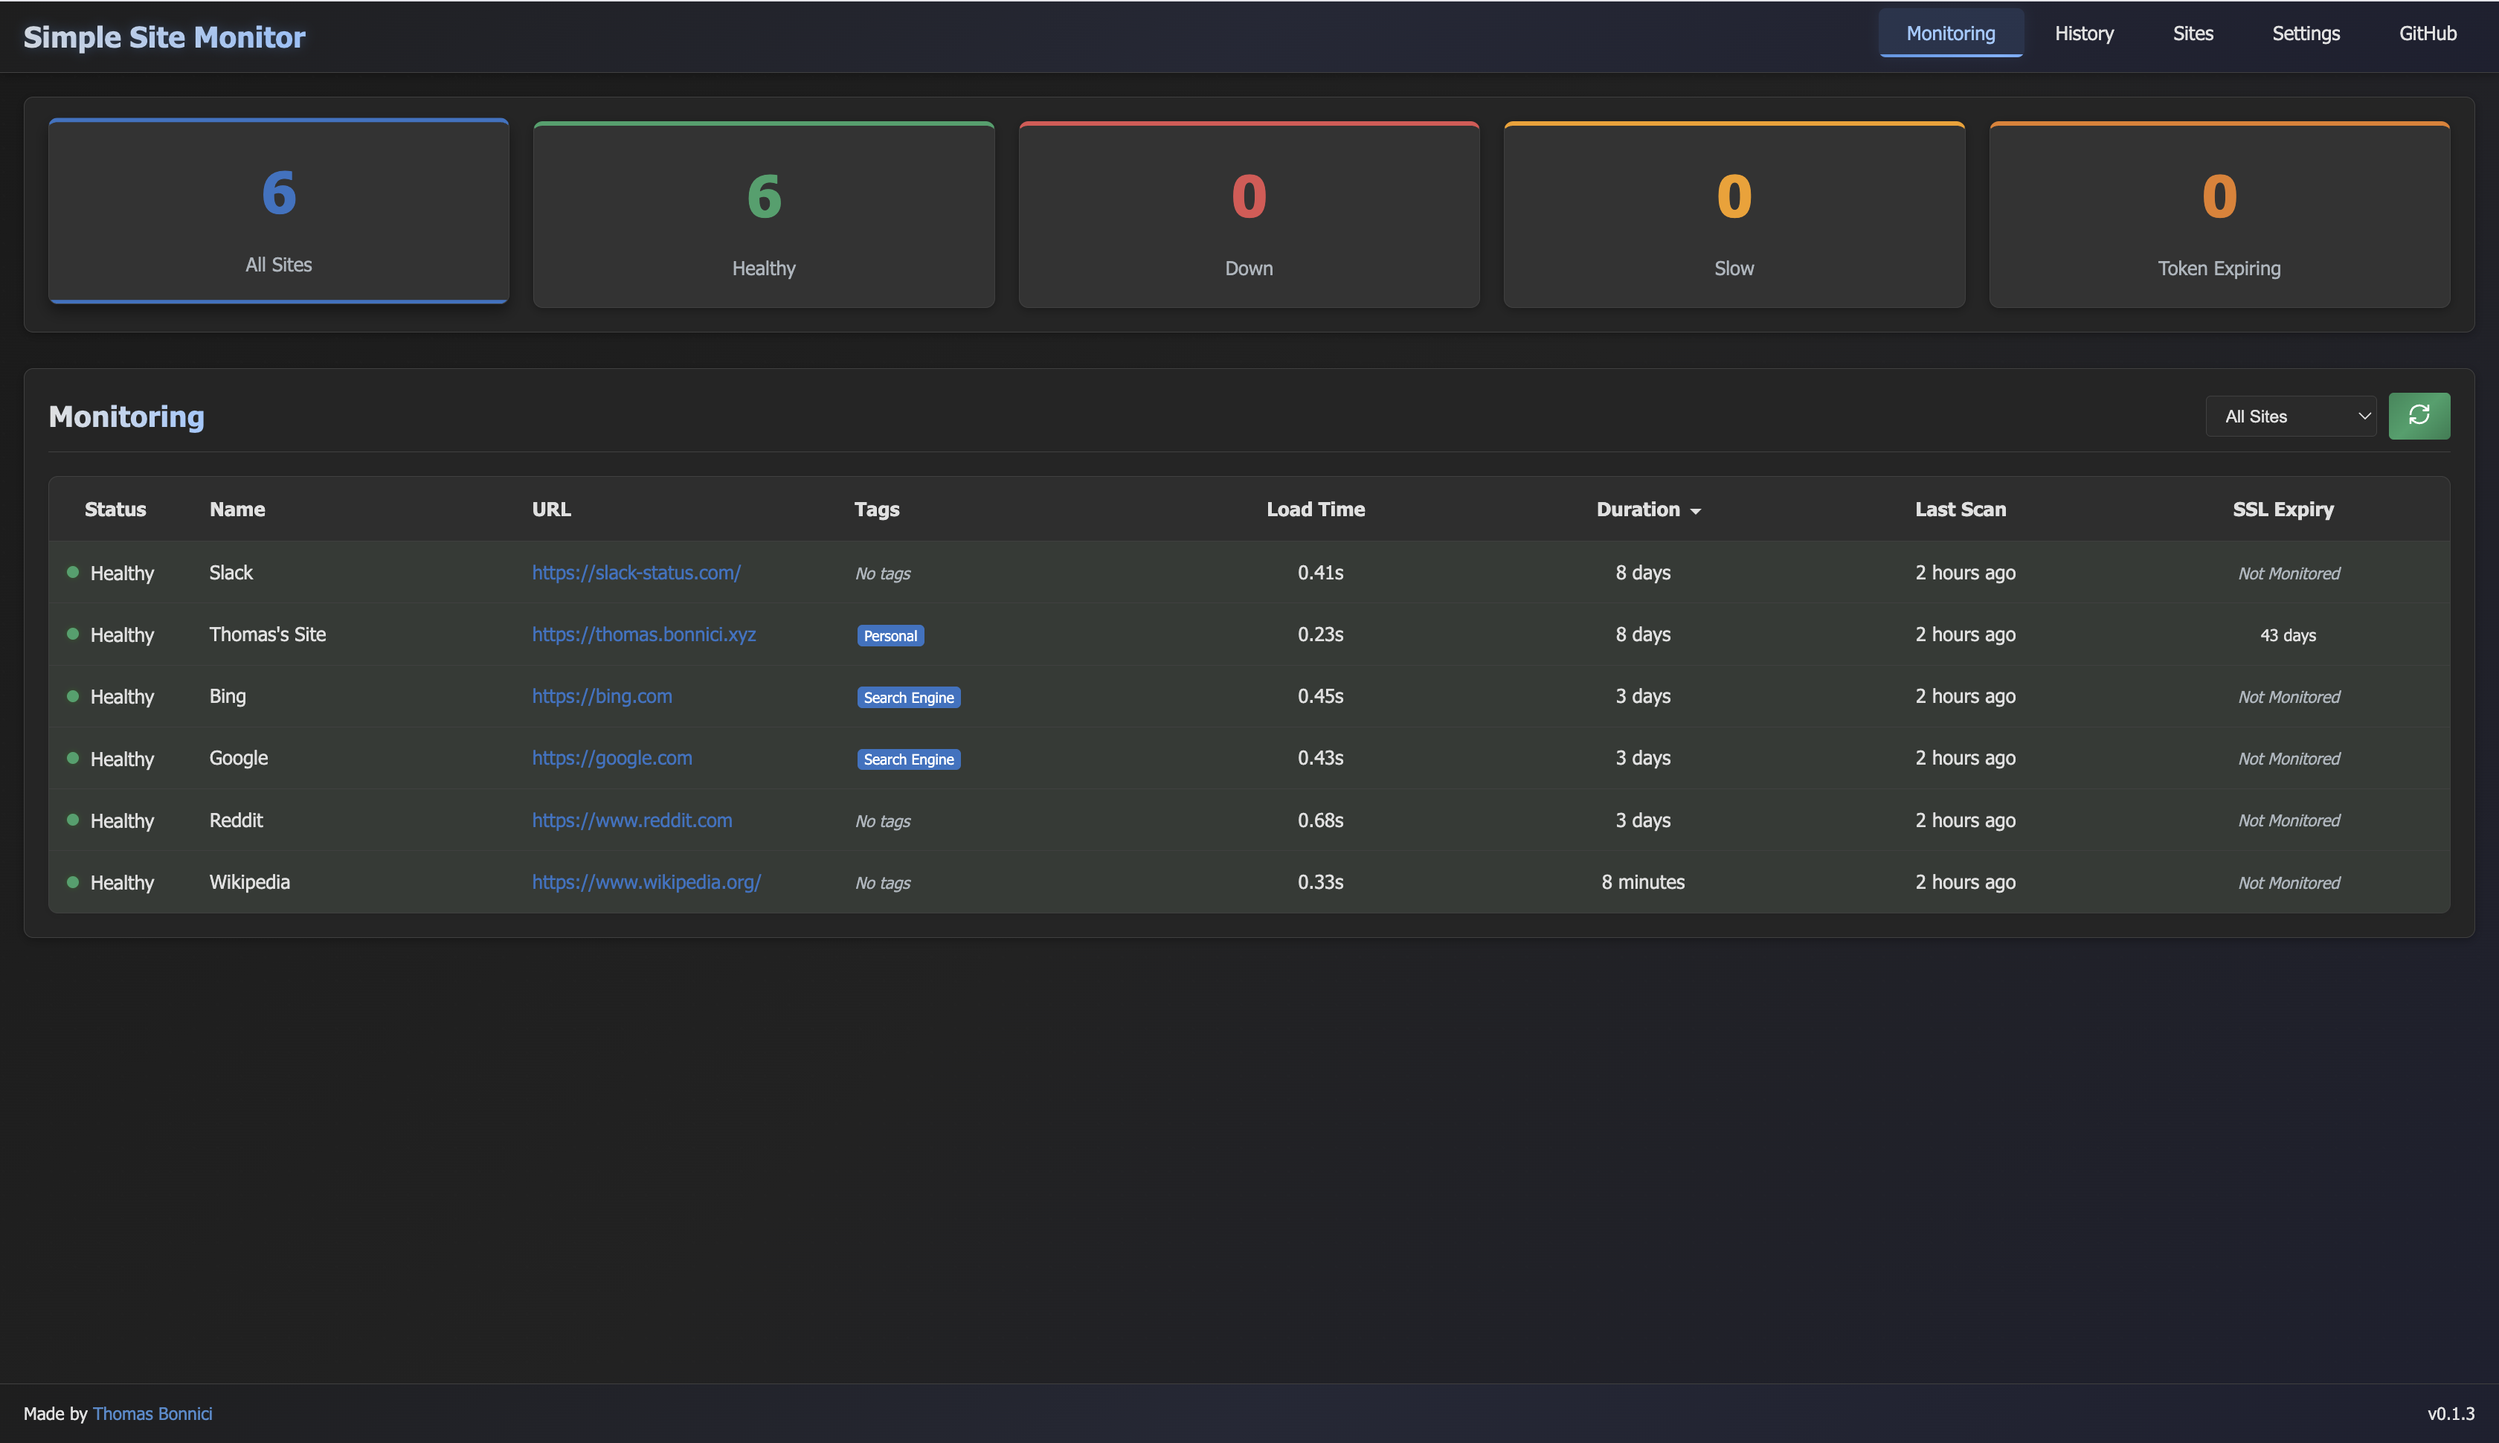
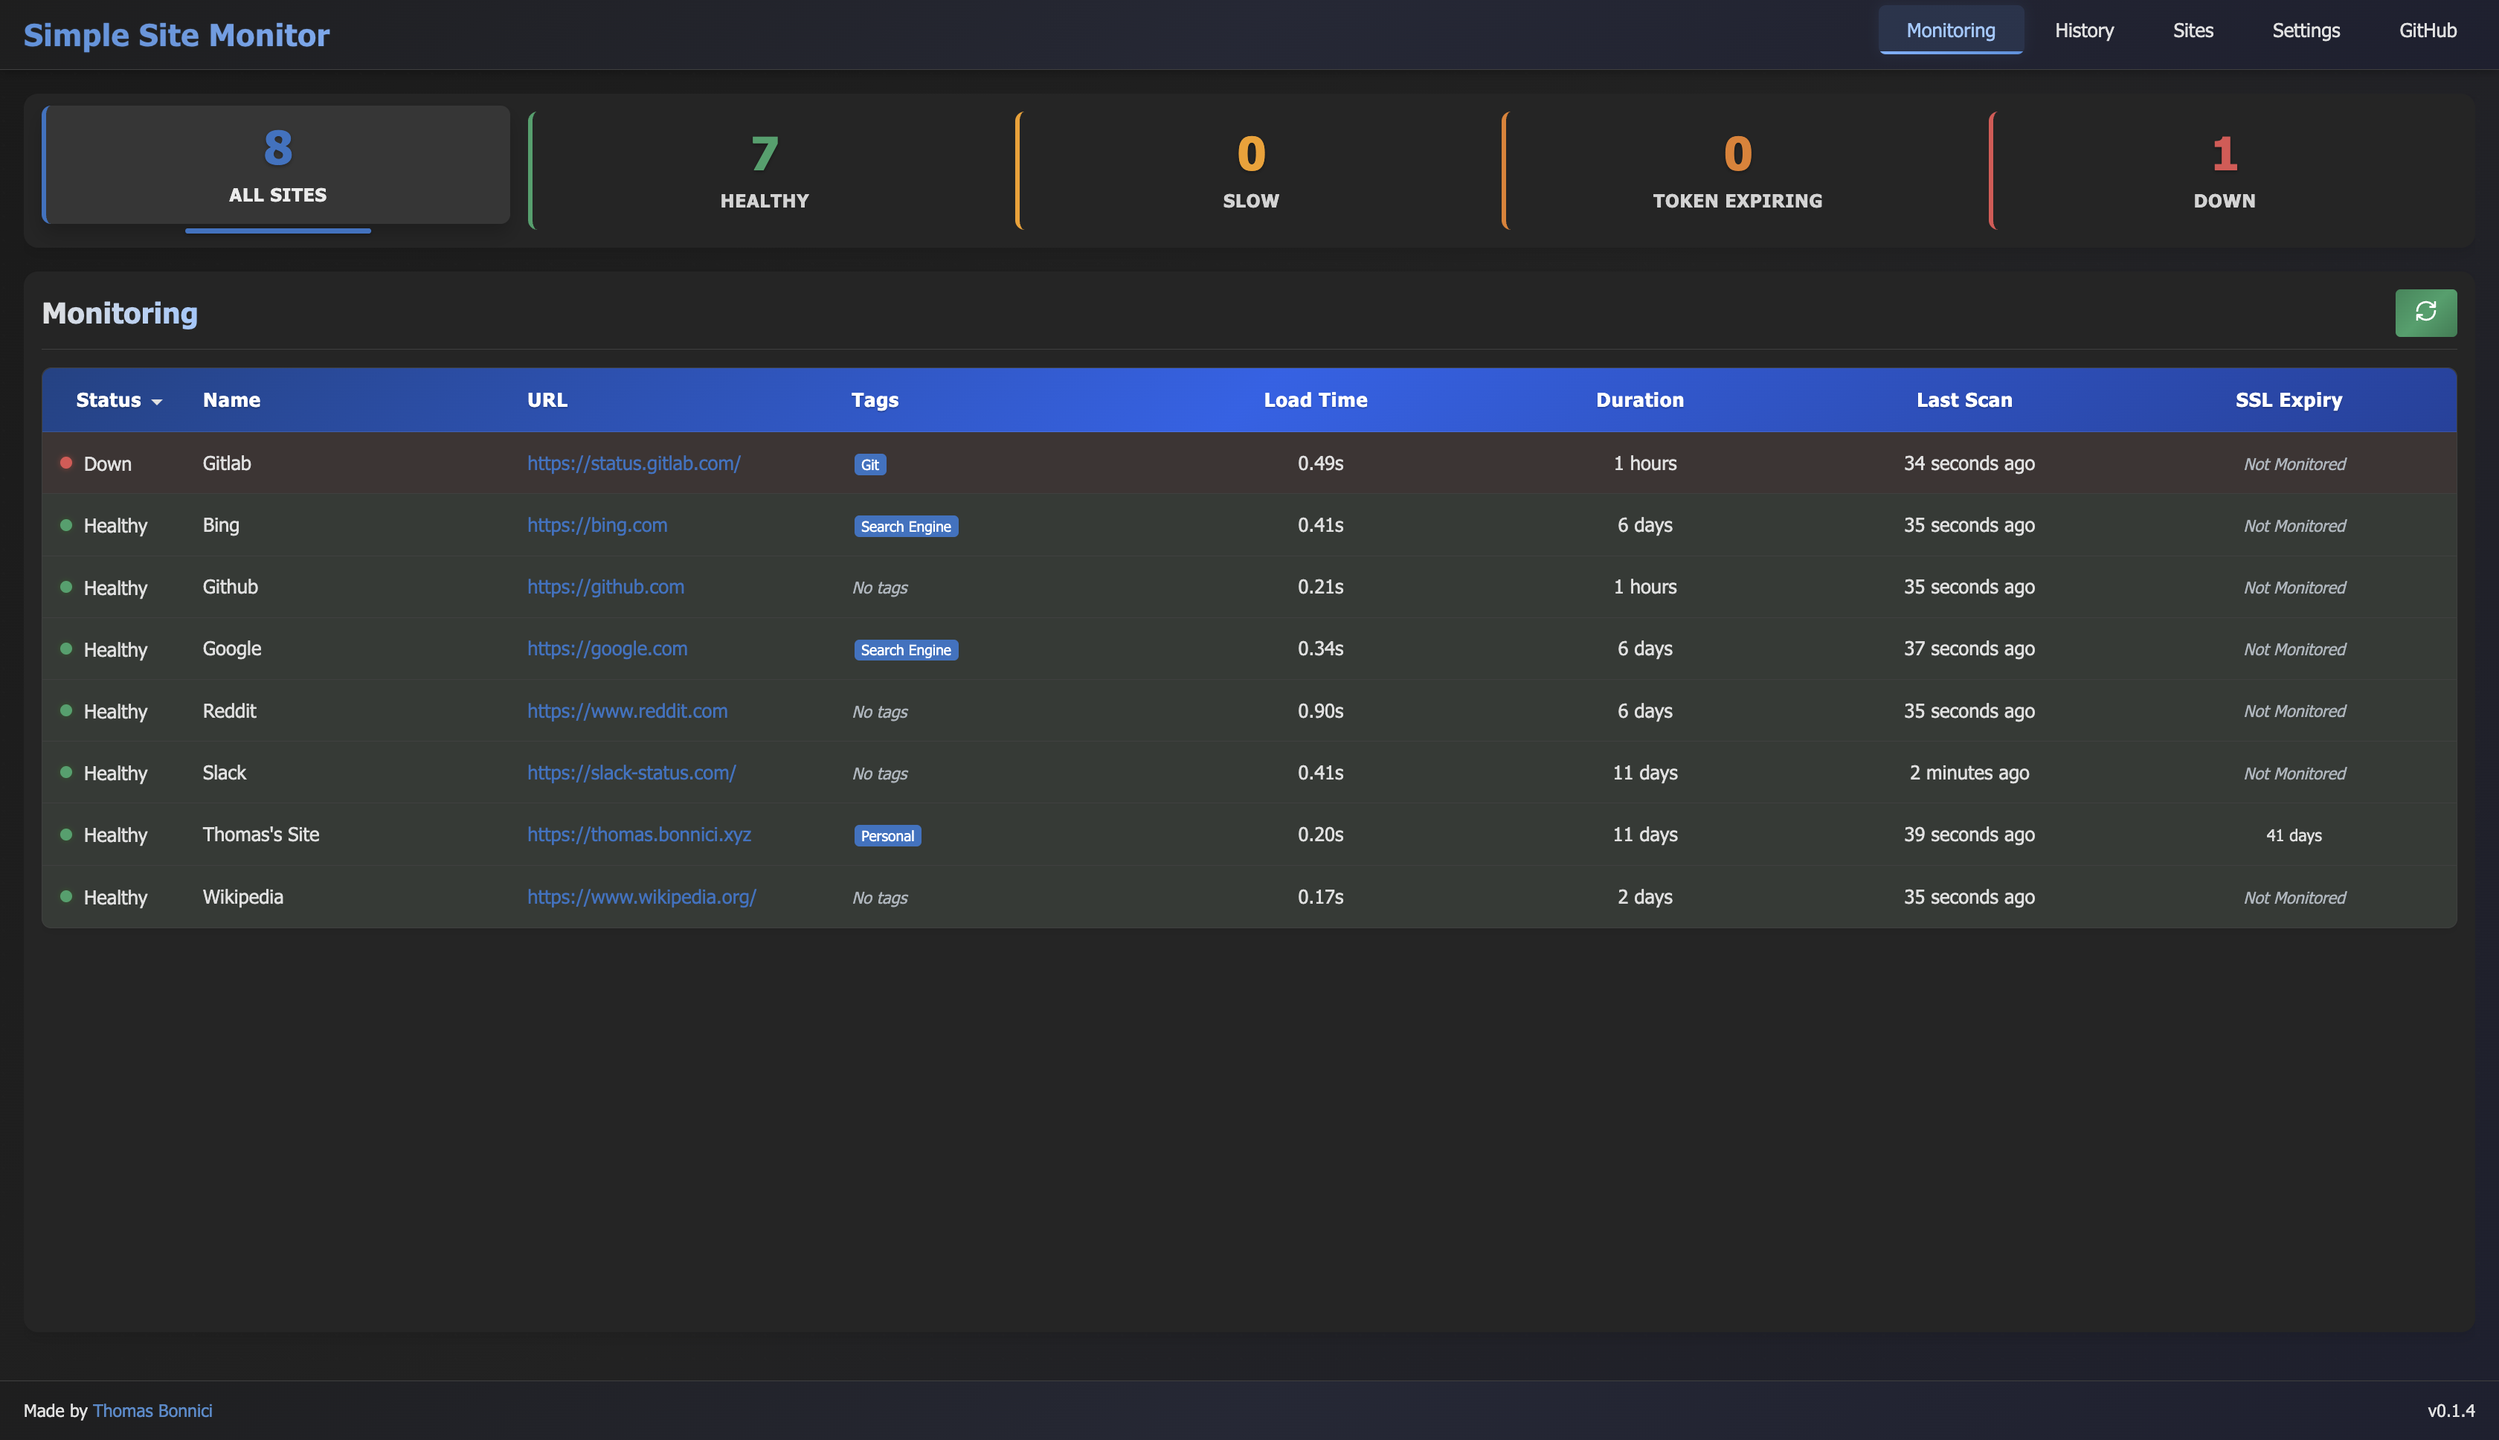
Version control and readme update for v0.1.4

diff --git a/templates/layout.html b/templates/layout.html
@@ -27,7 +27,7 @@
         </main>
         <footer>
             <p class="author">Made by <a href="https://thomas.bonnici.xyz" target="_blank">Thomas Bonnici</a></p>
-            <p class="version">v0.1.3</p>
+            <p class="version">v0.1.4</p>
         </footer>
     </div>
     

diff --git a/main.py b/main.py
@@ -7,7 +7,7 @@ import models.models as models
 app = FastAPI(
     title="Simple Site Monitor",
     description="A simple site monitor for monitoring website availability and performance",
-    version="0.1.3"
+    version="0.1.4"
 )
 
 models.Base.metadata.create_all(bind=engine)

diff --git a/changelog.md b/changelog.md
@@ -1,5 +1,9 @@
 # Simple Site Monitor
 
+## v0.1.4 - Frontend updates and bug fixes
+### UI
+- [#13] Interface Improvements and history page table fix
+
 ## v0.1.3 - Added Tags, UI Table Improvement and Bug Fixes
 ### UI
 - [#6] Added Site Tags
